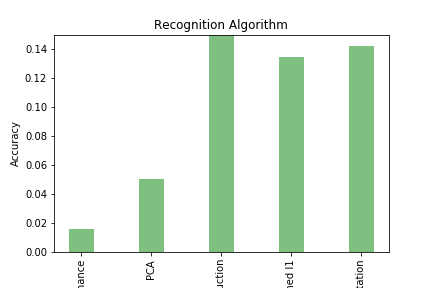
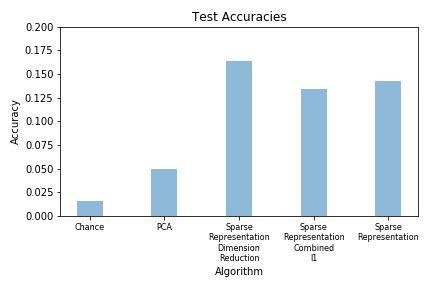
Figure updates.

Changed region(s): [[0.0301, 0.0312, 0.963, 1.0]]

diff --git a/code/analysis.py b/code/analysis.py
@@ -17,26 +17,28 @@ def create_accuracies_plot(accuracies, labels, xlabel, title, savename):
     width = 0.35       # the width of the bars
 
     fig, ax = plt.subplots()
-    ax.bar(ind, accuracies, width, color='g', alpha=0.5)
+    ax.bar(ind, accuracies, width, alpha=0.5)
 
     # add some text for labels, title and axes ticks
     ax.set_ylabel('Accuracy')
-    ax.set_ylim([0,0.15])
+    ax.set_ylim([0,0.2])
     ax.set_title(title)
     ax.set_xticks(ind)
-    ax.set_xticklabels(labels,rotation=90)
+    ax.set_xticklabels(labels,fontsize=8)
     ax.set_xlabel(xlabel)
 
+    plt.tight_layout()
     plt.savefig(figures_dir+savename+".png")
     plt.show()
     
 def create_default_accuracies(results):
     nomanipulation_results = results[results['Manipulation Type']=='none']
     algorithms = ["Chance"] + list(nomanipulation_results['Recognition Algorithm'])
+    algorithms = [algorithm.replace(" ","\n") for algorithm in algorithms]
     train_accuracies = [CHANCE_RATE] + list(nomanipulation_results['Train Accuracy'])
     test_accuracies = [CHANCE_RATE] + list(nomanipulation_results['Test Accuracy'])
 
-    create_accuracies_plot(test_accuracies, algorithms, "Algorithm", "Recognition Algorithm", "default")
+    create_accuracies_plot(test_accuracies, algorithms, "Algorithm", "Test Accuracies", "default")
 
 #def create_manipulation_plot(algorithms, manipulation, results_subset, default_results):
 #        num_algorithms = len(algorithms)
